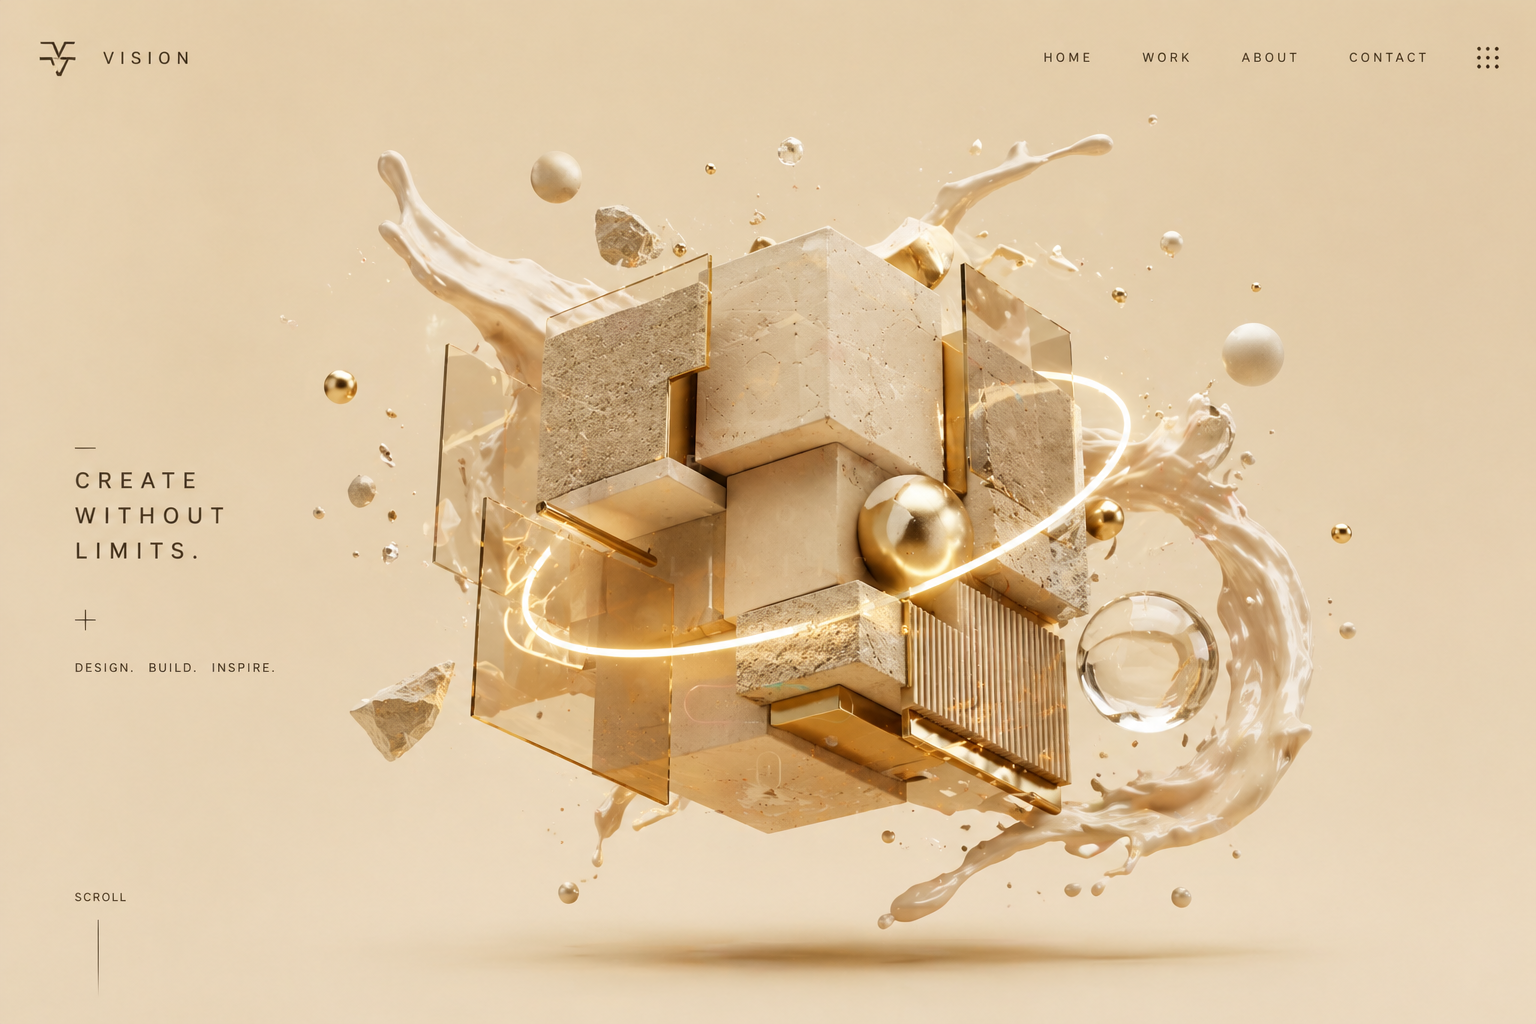
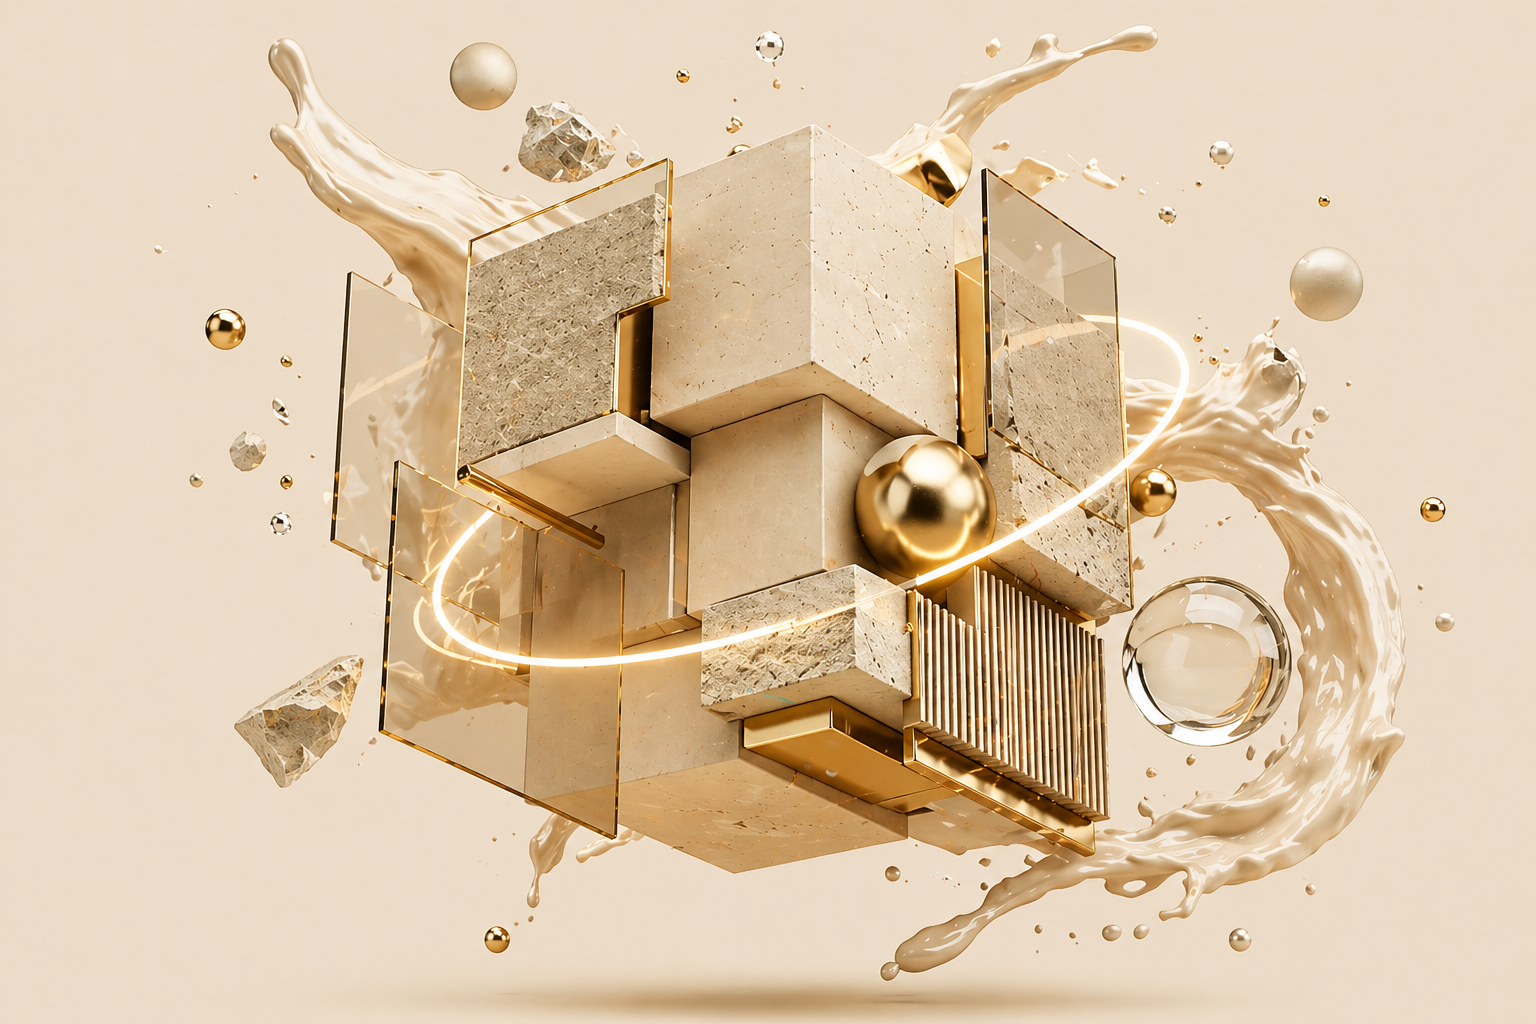
Bigger design hero, edge blend, newest cube image

diff --git a/app.jsx b/app.jsx
@@ -60,10 +60,10 @@ function OrbStage() {
           alt="DEY Marketing"
           style={{
             width: '100%',
-            maxWidth: 520,
-            borderRadius: 24,
+            maxWidth: 680,
             display: 'block',
-            filter: 'drop-shadow(0 30px 60px rgba(58,38,18,0.25))',
+            WebkitMaskImage: 'radial-gradient(ellipse 82% 82% at 50% 50%, black 45%, transparent 100%)',
+            maskImage: 'radial-gradient(ellipse 82% 82% at 50% 50%, black 45%, transparent 100%)',
           }}
         />
       </div>
